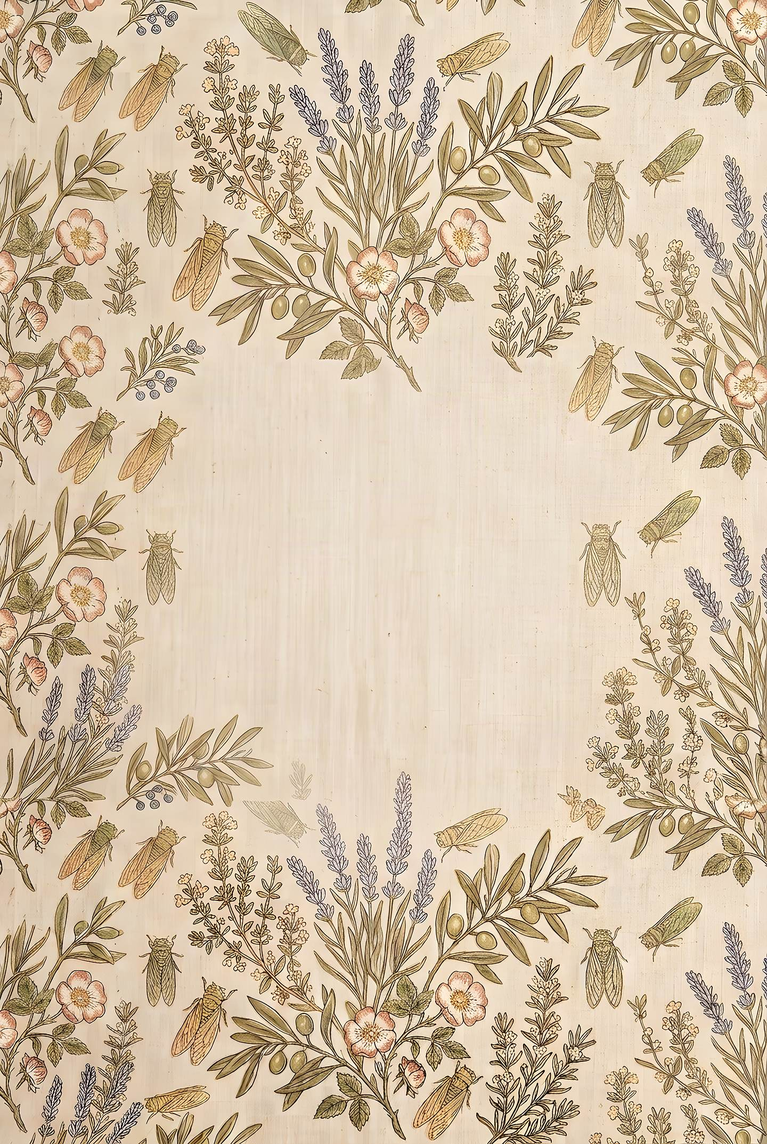
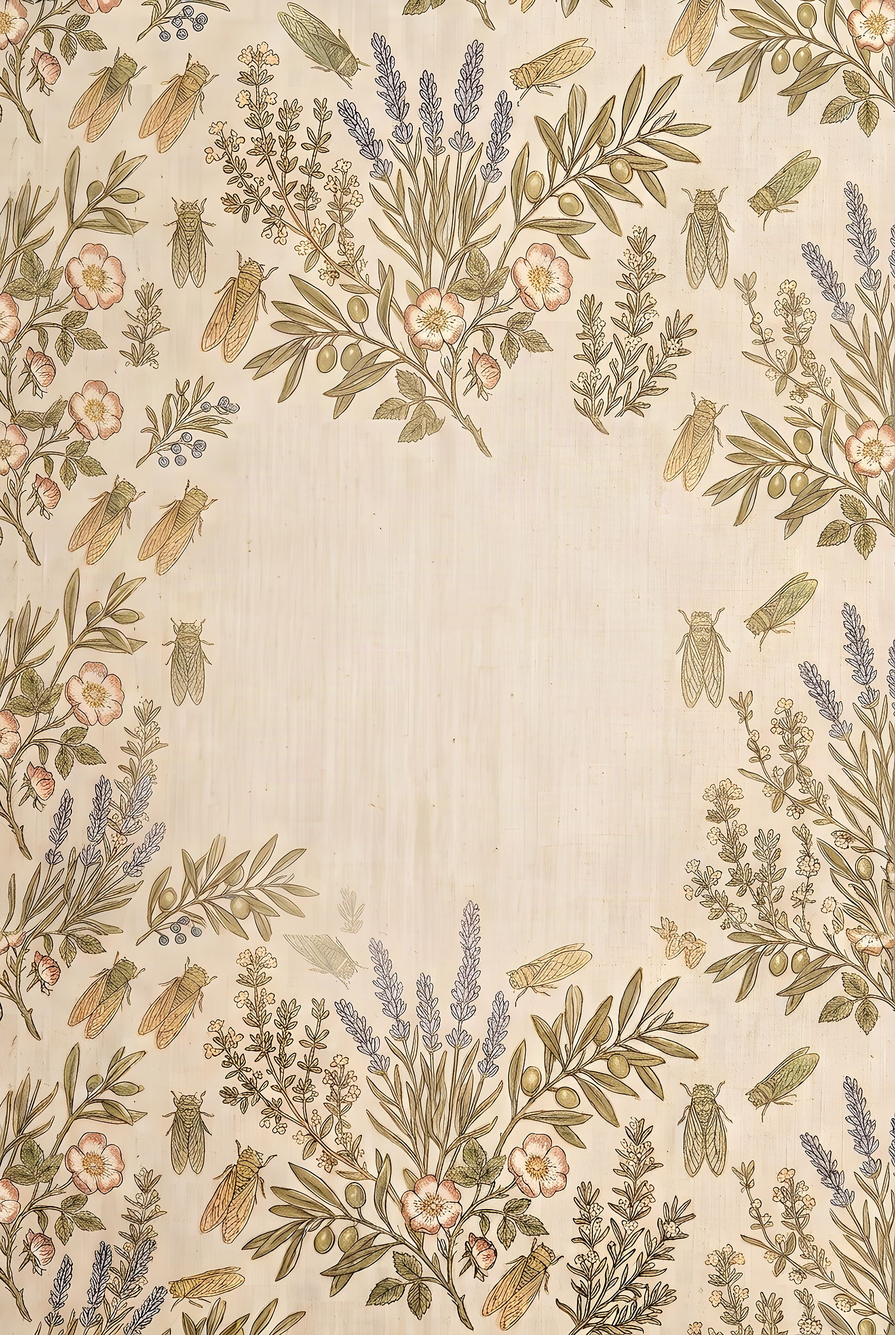
Fix pixellisation mobile (fond fixed) + image qualite 80

diff --git a/index.html b/index.html
@@ -68,12 +68,22 @@
 
   body {
     font-family: 'Cormorant Garamond', serif;
+    background: #EFE6D3; /* fond de secours uni */
+    color: #3E3423;
+    overflow-x: hidden;
+    position: relative;
+  }
+
+  /* Fond d'écran en position fixed : couvre uniquement le viewport,
+     évite l'étirement/pixellisation de background-attachment sur mobile. */
+  body::before {
+    content: '';
+    position: fixed;
+    inset: 0;
     background: linear-gradient(rgba(246,241,228,0.70), rgba(246,241,228,0.70)), url('fond.jpg');
     background-size: cover;
     background-position: center;
-    background-attachment: fixed;
-    color: #3E3423;
-    overflow-x: hidden;
+    z-index: -1;
   }
 
   /* ── HERO ── */
